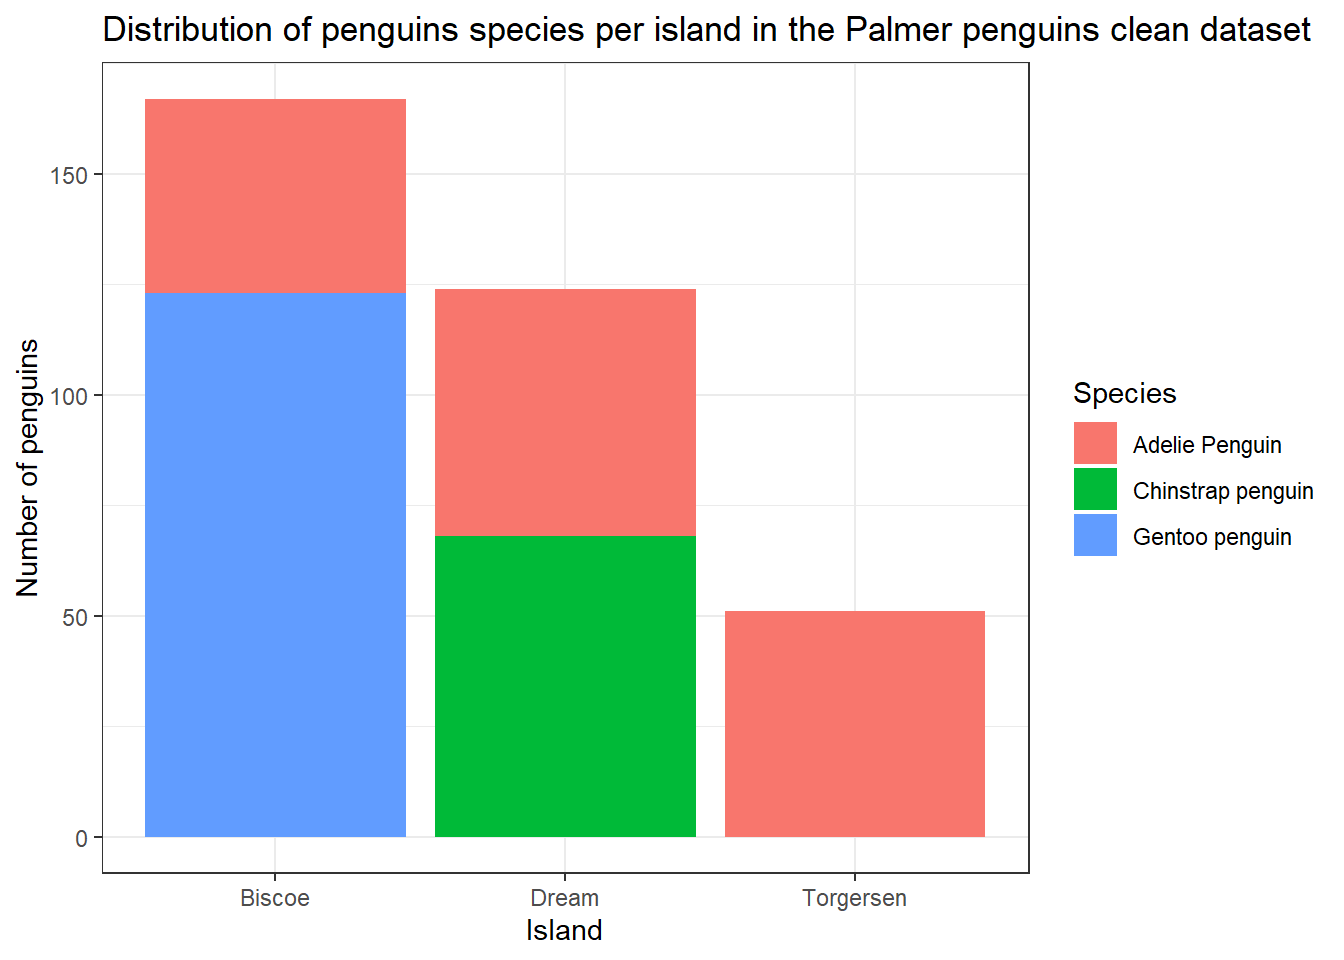
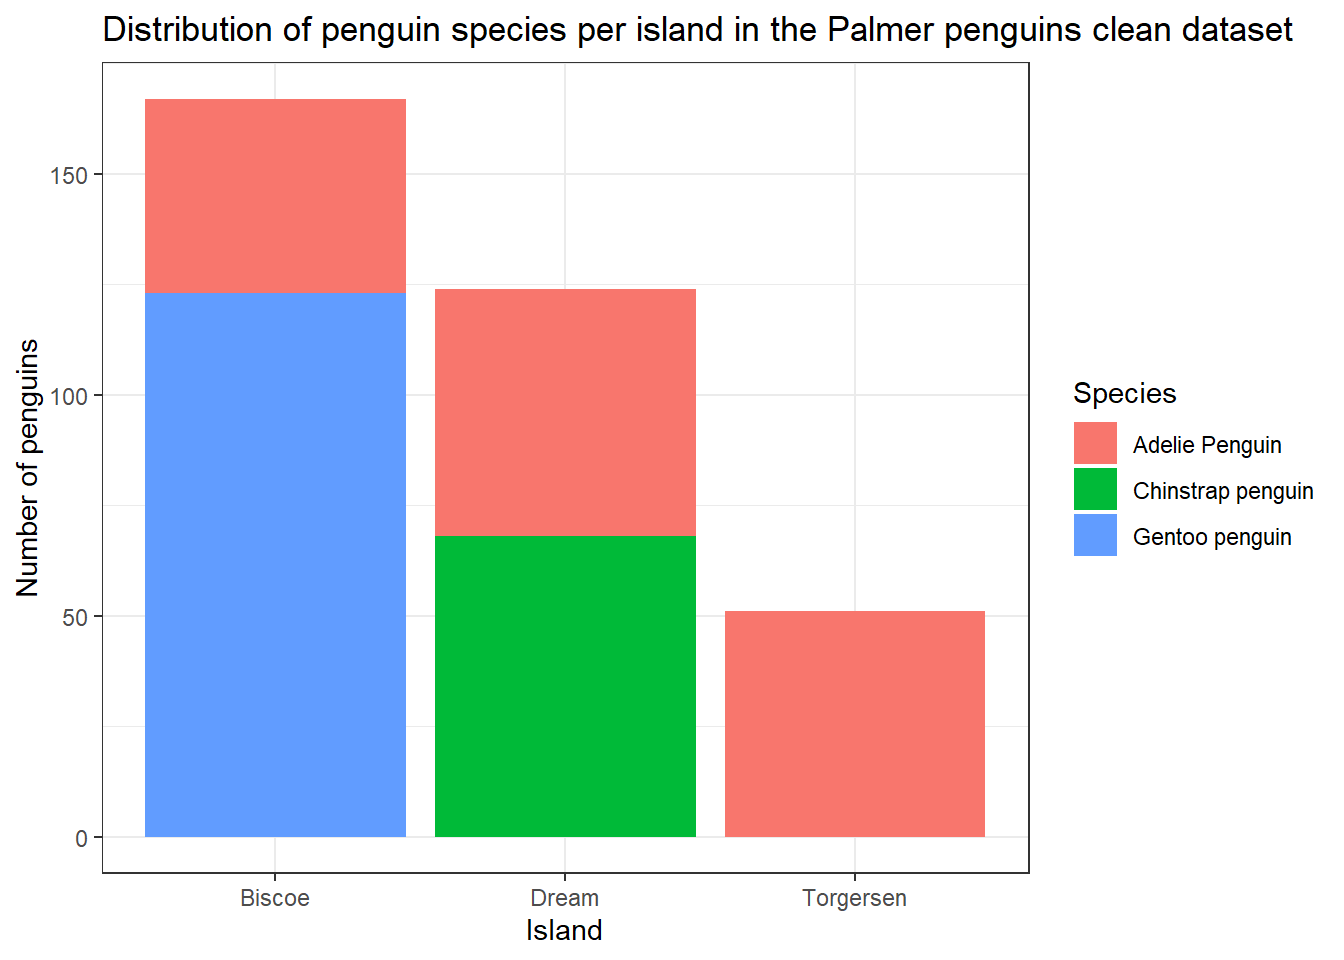
Update to html

Changed region(s): [[0.3125, 0.0, 0.9688, 0.0625]]

diff --git a/scripts/BYOD1_workshop.html b/scripts/BYOD1_workshop.html
@@ -6,7 +6,7 @@
 
 <meta name="viewport" content="width=device-width, initial-scale=1.0, user-scalable=yes">
 
-<meta name="author" content="Amy Kendig and Véronique St-Louis (MN-DNR)">
+<meta name="author" content="MN-DNR Biometricians">
 <meta name="dcterms.date" content="2025-11-20">
 
 <title>Bring Your Own Data (BYOD) Series</title>
@@ -163,7 +163,7 @@ pre > code.sourceCode > span > a:first-child::before { text-decoration: underlin
     <div>
     <div class="quarto-title-meta-heading">Author</div>
     <div class="quarto-title-meta-contents">
-             <p>Amy Kendig and Véronique St-Louis (MN-DNR) </p>
+             <p>MN-DNR Biometricians </p>
           </div>
   </div>
     
@@ -952,7 +952,7 @@ $ year                  &lt;dbl&gt; 2007, 2007, 2007, 2007, 2007, 2007, 2007, 20
 <div class="sourceCode cell-code" id="cb21"><pre class="sourceCode r code-with-copy"><code class="sourceCode r"><span id="cb21-1"><a href="#cb21-1" aria-hidden="true" tabindex="-1"></a><span class="fu">ggplot</span>(<span class="at">data=</span>cleandat)<span class="sc">+</span></span>
 <span id="cb21-2"><a href="#cb21-2" aria-hidden="true" tabindex="-1"></a>  <span class="fu">aes</span>(<span class="at">x=</span>island, <span class="at">fill=</span>species)<span class="sc">+</span> <span class="co"># species will be in colour, island will be on the X axis</span></span>
 <span id="cb21-3"><a href="#cb21-3" aria-hidden="true" tabindex="-1"></a>  <span class="fu">geom_bar</span>()<span class="sc">+</span> <span class="co"># type of graph</span></span>
-<span id="cb21-4"><a href="#cb21-4" aria-hidden="true" tabindex="-1"></a><span class="fu">labs</span>(<span class="at">title=</span><span class="st">"Distribution of penguins species per island in the Palmer penguins clean dataset"</span>,<span class="at">x=</span><span class="st">"Island"</span>,<span class="at">y=</span><span class="st">"Number of penguins"</span>,<span class="at">fill=</span><span class="st">"Species"</span>)<span class="sc">+</span> <span class="co">#Customizing labels; "fill="Species" will change the legend title for the fill aesthetics </span></span>
+<span id="cb21-4"><a href="#cb21-4" aria-hidden="true" tabindex="-1"></a><span class="fu">labs</span>(<span class="at">title=</span><span class="st">"Distribution of penguin species per island in the Palmer penguins clean dataset"</span>,<span class="at">x=</span><span class="st">"Island"</span>,<span class="at">y=</span><span class="st">"Number of penguins"</span>,<span class="at">fill=</span><span class="st">"Species"</span>)<span class="sc">+</span> <span class="co">#Customizing labels; "fill="Species" will change the legend title for the fill aesthetics </span></span>
 <span id="cb21-5"><a href="#cb21-5" aria-hidden="true" tabindex="-1"></a>  <span class="fu">theme_bw</span>() <span class="co"># remove grey background</span></span></code><button title="Copy to Clipboard" class="code-copy-button"><i class="bi"></i></button></pre></div>
 <div class="cell-output-display">
 <div>
@@ -967,7 +967,7 @@ $ year                  &lt;dbl&gt; 2007, 2007, 2007, 2007, 2007, 2007, 2007, 20
 <div class="sourceCode cell-code" id="cb22"><pre class="sourceCode r code-with-copy"><code class="sourceCode r"><span id="cb22-1"><a href="#cb22-1" aria-hidden="true" tabindex="-1"></a><span class="fu">ggplot</span>(<span class="at">data=</span>cleandat)<span class="sc">+</span></span>
 <span id="cb22-2"><a href="#cb22-2" aria-hidden="true" tabindex="-1"></a>  <span class="fu">aes</span>(<span class="at">x=</span>island, <span class="at">fill=</span>species)<span class="sc">+</span> <span class="co"># species will be in colour, island will be on the X axis</span></span>
 <span id="cb22-3"><a href="#cb22-3" aria-hidden="true" tabindex="-1"></a>  <span class="fu">geom_bar</span>()<span class="sc">+</span> <span class="co"># type of graph</span></span>
-<span id="cb22-4"><a href="#cb22-4" aria-hidden="true" tabindex="-1"></a><span class="fu">labs</span>(<span class="at">title=</span><span class="st">"Distribution of penguins species per island in the Palmer penguins clean dataset"</span>,<span class="at">x=</span><span class="st">"Island"</span>,<span class="at">y=</span><span class="st">"Number of penguins"</span>,<span class="at">fill=</span><span class="st">"Species"</span>)<span class="sc">+</span> <span class="co">#Customizing labels; "fill="Species" will change the legend title for the fill aesthetics </span></span>
+<span id="cb22-4"><a href="#cb22-4" aria-hidden="true" tabindex="-1"></a><span class="fu">labs</span>(<span class="at">title=</span><span class="st">"Distribution of penguin species per island in the Palmer penguins clean dataset"</span>,<span class="at">x=</span><span class="st">"Island"</span>,<span class="at">y=</span><span class="st">"Number of penguins"</span>,<span class="at">fill=</span><span class="st">"Species"</span>)<span class="sc">+</span> <span class="co">#Customizing labels; "fill="Species" will change the legend title for the fill aesthetics </span></span>
 <span id="cb22-5"><a href="#cb22-5" aria-hidden="true" tabindex="-1"></a>  <span class="fu">theme_bw</span>()<span class="sc">+</span> <span class="co"># remove grey background</span></span>
 <span id="cb22-6"><a href="#cb22-6" aria-hidden="true" tabindex="-1"></a><span class="fu">scale_fill_brewer</span>(<span class="at">type=</span><span class="st">"qual"</span>,<span class="at">palette=</span><span class="dv">3</span>)</span></code><button title="Copy to Clipboard" class="code-copy-button"><i class="bi"></i></button></pre></div>
 <div class="cell-output-display">
@@ -983,7 +983,7 @@ $ year                  &lt;dbl&gt; 2007, 2007, 2007, 2007, 2007, 2007, 2007, 20
 <div class="sourceCode cell-code" id="cb23"><pre class="sourceCode r code-with-copy"><code class="sourceCode r"><span id="cb23-1"><a href="#cb23-1" aria-hidden="true" tabindex="-1"></a><span class="fu">ggplot</span>(<span class="at">data=</span>cleandat)<span class="sc">+</span></span>
 <span id="cb23-2"><a href="#cb23-2" aria-hidden="true" tabindex="-1"></a>  <span class="fu">aes</span>(<span class="at">x=</span>island, <span class="at">fill=</span>species)<span class="sc">+</span> <span class="co"># species will be in colour, island will be on the X axis</span></span>
 <span id="cb23-3"><a href="#cb23-3" aria-hidden="true" tabindex="-1"></a>  <span class="fu">geom_bar</span>(<span class="at">position=</span><span class="fu">position_dodge</span>(<span class="at">preserve=</span><span class="st">"single"</span>))<span class="sc">+</span> <span class="co"># type of graph</span></span>
-<span id="cb23-4"><a href="#cb23-4" aria-hidden="true" tabindex="-1"></a><span class="fu">labs</span>(<span class="at">title=</span><span class="st">"Distribution of penguins species per island in the Palmer penguins clean dataset"</span>,<span class="at">x=</span><span class="st">"Island"</span>,<span class="at">y=</span><span class="st">"Number of penguins"</span>,<span class="at">fill=</span><span class="st">"Species"</span>)<span class="sc">+</span> <span class="co">#Customizing labels; "fill="Species" will change the legend title for the fill aesthetics </span></span>
+<span id="cb23-4"><a href="#cb23-4" aria-hidden="true" tabindex="-1"></a><span class="fu">labs</span>(<span class="at">title=</span><span class="st">"Distribution of penguin species per island in the Palmer penguins clean dataset"</span>,<span class="at">x=</span><span class="st">"Island"</span>,<span class="at">y=</span><span class="st">"Number of penguins"</span>,<span class="at">fill=</span><span class="st">"Species"</span>)<span class="sc">+</span> <span class="co">#Customizing labels; "fill="Species" will change the legend title for the fill aesthetics </span></span>
 <span id="cb23-5"><a href="#cb23-5" aria-hidden="true" tabindex="-1"></a>  <span class="fu">theme_bw</span>()<span class="sc">+</span> <span class="co"># remove grey background</span></span>
 <span id="cb23-6"><a href="#cb23-6" aria-hidden="true" tabindex="-1"></a><span class="fu">scale_fill_brewer</span>(<span class="at">type=</span><span class="st">"qual"</span>,<span class="at">palette=</span><span class="dv">3</span>)</span></code><button title="Copy to Clipboard" class="code-copy-button"><i class="bi"></i></button></pre></div>
 <div class="cell-output-display">
